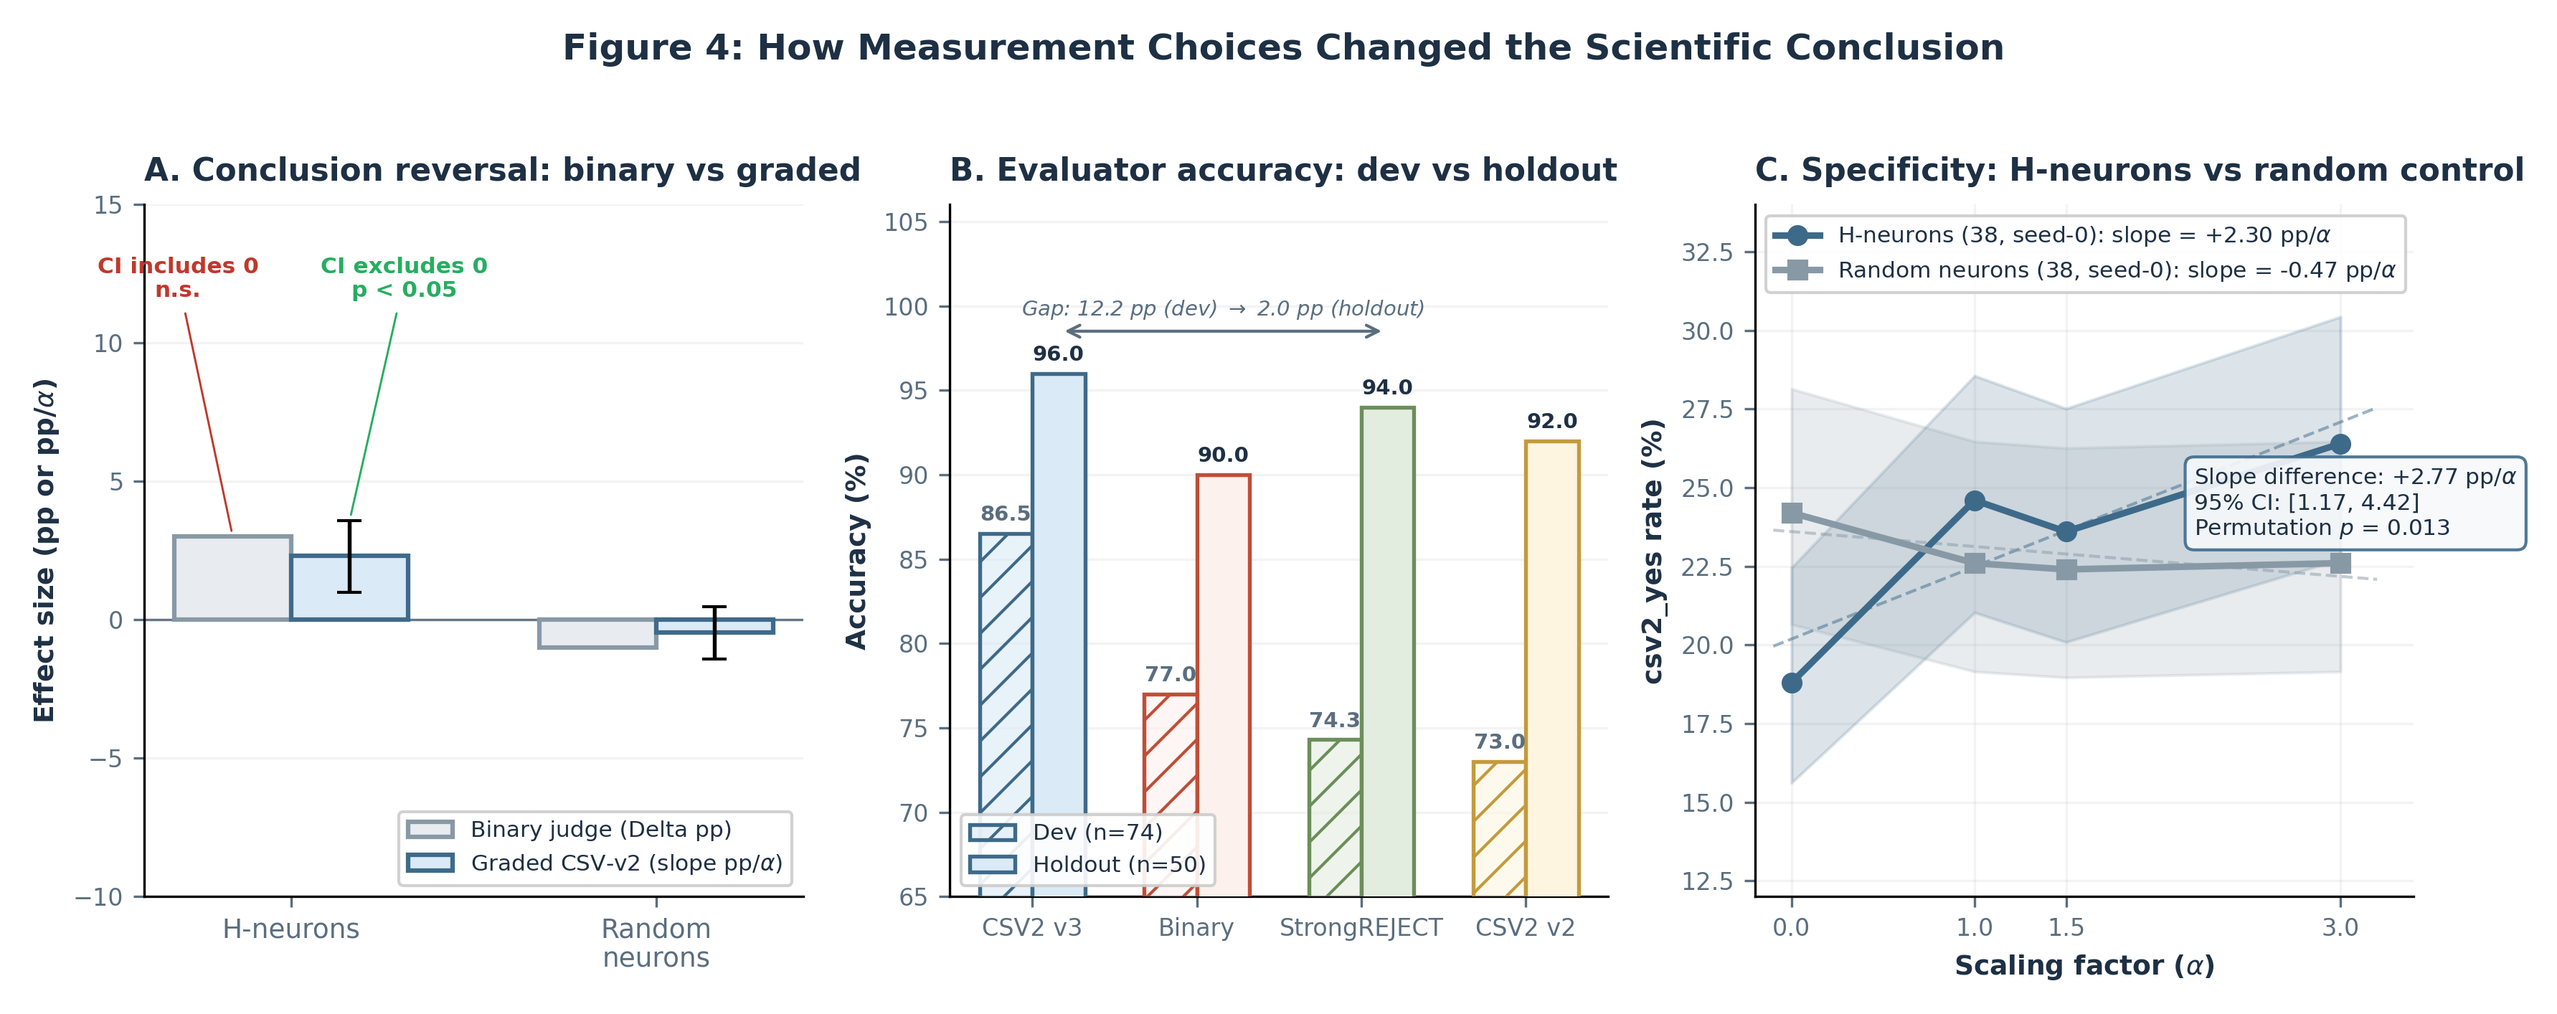
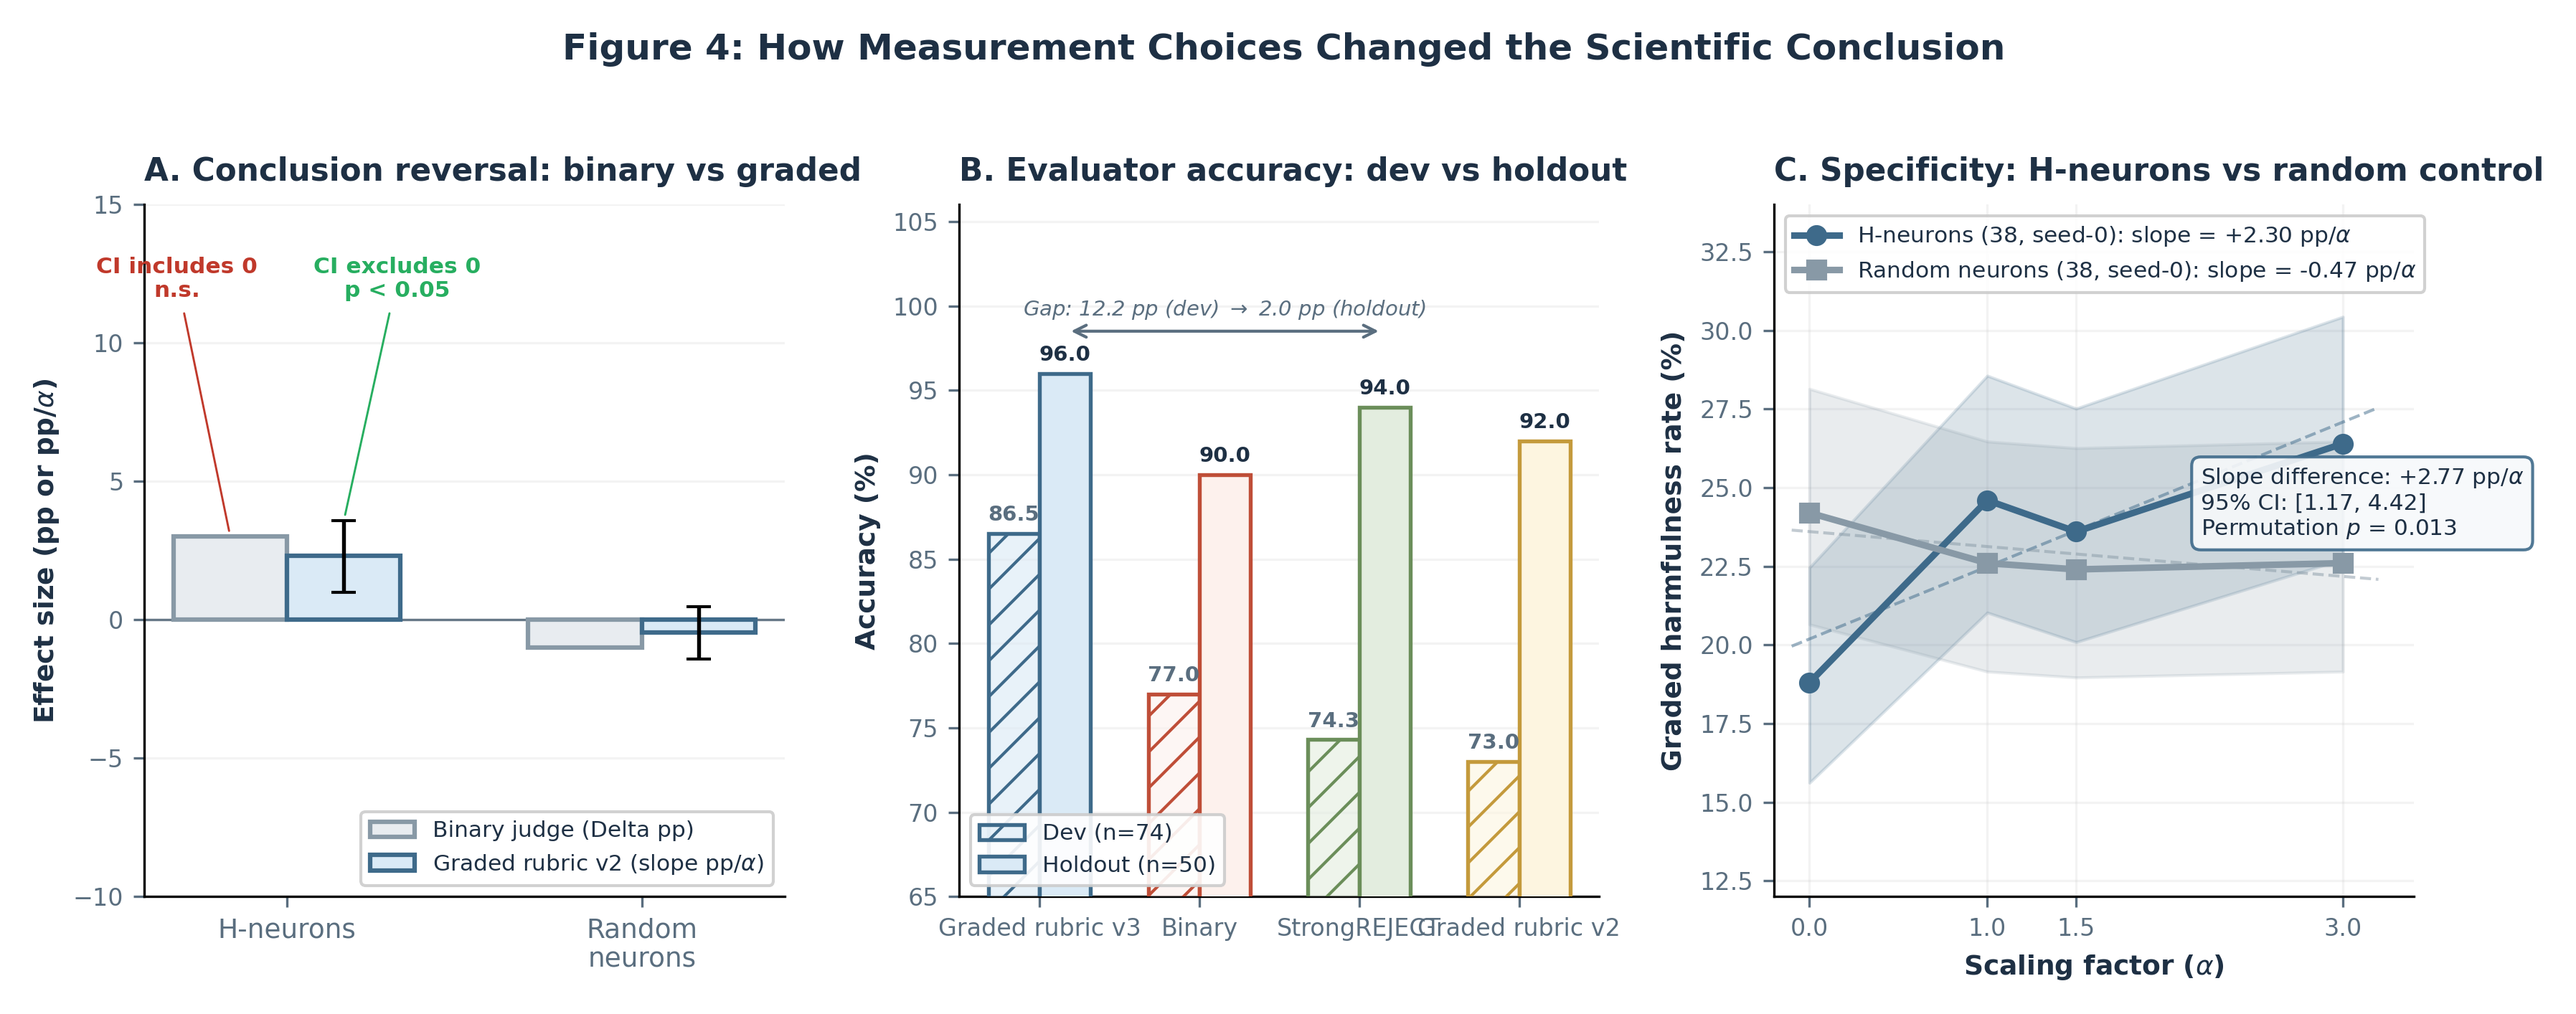
fix: stabilize paper builder paths and fig4 rubric label

diff --git a/scripts/build_full_paper.py b/scripts/build_full_paper.py
@@ -1,0 +1,146 @@
+#!/usr/bin/env python3
+"""Assemble the paper draft from section source files."""
+
+from __future__ import annotations
+
+import argparse
+import json
+import sys
+from dataclasses import dataclass
+from pathlib import Path
+
+REPO_ROOT = Path(__file__).resolve().parents[1]
+DEFAULT_MANIFEST = REPO_ROOT / "notes/paper/draft/assembly_manifest.json"
+DEFAULT_OUTPUT = REPO_ROOT / "notes/paper/draft/full_paper.md"
+GENERATED_WARNING = """<!--
+Generated file: do not edit directly.
+Edit notes/paper/draft source shards and rebuild with:
+  uv run python scripts/build_full_paper.py
+-->"""
+RULE_AFTER = {"front_matter.md", "abstract.md", "section_9_conclusion.md"}
+
+
+@dataclass(frozen=True)
+class SourceSpec:
+    path: Path
+    expected_heading: str | None = None
+
+
+def parse_args() -> argparse.Namespace:
+    parser = argparse.ArgumentParser(description=__doc__)
+    parser.add_argument("--manifest", type=Path, default=DEFAULT_MANIFEST)
+    parser.add_argument("--output", type=Path, default=DEFAULT_OUTPUT)
+    parser.add_argument(
+        "--check",
+        action="store_true",
+        help="exit nonzero if the compiled paper is stale",
+    )
+    return parser.parse_args()
+
+
+def load_manifest(path: Path) -> list[SourceSpec]:
+    payload = json.loads(path.read_text(encoding="utf-8"))
+    raw_sources = payload.get("sources")
+    if not isinstance(raw_sources, list) or not raw_sources:
+        raise ValueError(f"{path} must define a non-empty 'sources' list")
+
+    manifest_dir = path.parent
+    seen: set[Path] = set()
+    sources: list[SourceSpec] = []
+    for entry in raw_sources:
+        if not isinstance(entry, dict):
+            raise ValueError(f"{path} contains a non-object manifest entry")
+        raw_rel_path = entry.get("path")
+        if not isinstance(raw_rel_path, str) or not raw_rel_path:
+            raise ValueError(f"{path} contains an entry without a valid 'path'")
+        source_path = manifest_dir / raw_rel_path
+        if source_path in seen:
+            raise ValueError(f"duplicate source entry in manifest: {raw_rel_path}")
+        seen.add(source_path)
+        expected_heading = entry.get("expected_heading")
+        if expected_heading is not None and not isinstance(expected_heading, str):
+            raise ValueError(
+                f"{path} entry for {raw_rel_path} has a non-string expected_heading"
+            )
+        sources.append(SourceSpec(path=source_path, expected_heading=expected_heading))
+    return sources
+
+
+def extract_first_heading(text: str) -> str | None:
+    in_comment = False
+    for raw_line in text.splitlines():
+        line = raw_line.strip()
+        if not line:
+            continue
+        if in_comment:
+            if "-->" in line:
+                in_comment = False
+            continue
+        if line.startswith("<!--"):
+            if "-->" not in line:
+                in_comment = True
+            continue
+        if line.startswith("#"):
+            return line
+        return None
+    return None
+
+
+def validate_source(spec: SourceSpec) -> str:
+    if not spec.path.exists():
+        raise FileNotFoundError(f"missing paper source: {spec.path}")
+    text = spec.path.read_text(encoding="utf-8").rstrip()
+    if spec.expected_heading is not None:
+        found_heading = extract_first_heading(text)
+        if found_heading != spec.expected_heading:
+            raise ValueError(
+                f"{spec.path} heading mismatch: expected "
+                f"{spec.expected_heading!r}, found {found_heading!r}"
+            )
+    return text
+
+
+def render_document(sources: list[SourceSpec]) -> str:
+    if not sources:
+        raise ValueError("cannot render document with no sources")
+
+    parts: list[str] = []
+    for idx, spec in enumerate(sources):
+        parts.append(validate_source(spec))
+        if idx == len(sources) - 1:
+            continue
+        separator = "\n\n---\n\n" if spec.path.name in RULE_AFTER else "\n\n"
+        parts.append(separator)
+
+    body = "".join(parts).rstrip() + "\n"
+    return GENERATED_WARNING + "\n\n" + body
+
+
+def build_full_paper(manifest_path: Path, output_path: Path, *, check: bool) -> None:
+    sources = load_manifest(manifest_path)
+    rendered = render_document(sources)
+    if check:
+        if not output_path.exists():
+            raise SystemExit(f"{output_path} is missing; run the builder first")
+        current = output_path.read_text(encoding="utf-8")
+        if current != rendered:
+            raise SystemExit(
+                f"{output_path} is stale; run `uv run python scripts/build_full_paper.py`"
+            )
+        return
+
+    output_path.write_text(rendered, encoding="utf-8")
+    print(f"Built {output_path}")
+
+
+def main() -> None:
+    args = parse_args()
+    try:
+        build_full_paper(args.manifest, args.output, check=args.check)
+    except (FileNotFoundError, ValueError) as exc:
+        print(f"error: {exc}", file=sys.stderr)
+        raise SystemExit(1) from exc
+
+
+if __name__ == "__main__":
+    main()

diff --git a/tests/test_build_full_paper.py b/tests/test_build_full_paper.py
@@ -1,0 +1,140 @@
+"""Tests for the paper assembly builder."""
+
+from __future__ import annotations
+
+import argparse
+import importlib
+import json
+import sys
+from pathlib import Path
+
+import pytest
+
+sys.path.insert(0, str(Path(__file__).resolve().parent.parent / "scripts"))
+
+build_full_paper = importlib.import_module("build_full_paper")
+REPO_ROOT = Path(__file__).resolve().parent.parent
+
+
+def _write(path: Path, text: str) -> None:
+    path.parent.mkdir(parents=True, exist_ok=True)
+    path.write_text(text, encoding="utf-8")
+
+
+def _manifest(tmp_path: Path, sources: list[dict[str, str]]) -> Path:
+    manifest = tmp_path / "manifest.json"
+    manifest.write_text(json.dumps({"sources": sources}), encoding="utf-8")
+    return manifest
+
+
+class TestBuildFullPaper:
+    def test_default_paths_are_repo_root_relative(self, monkeypatch):
+        monkeypatch.chdir(REPO_ROOT / "notes/paper/draft")
+        monkeypatch.setattr(sys, "argv", ["build_full_paper.py"])
+
+        args = build_full_paper.parse_args()
+
+        assert args.manifest == REPO_ROOT / "notes/paper/draft/assembly_manifest.json"
+        assert args.output == REPO_ROOT / "notes/paper/draft/full_paper.md"
+
+    def test_builds_from_manifest(self, tmp_path, monkeypatch):
+        _write(tmp_path / "front_matter.md", "Title\n\nAuthor")
+        _write(tmp_path / "abstract.md", "# Abstract\n\nAbstract body.")
+        _write(tmp_path / "section_1.md", "# 1. Intro\n\nIntro body.")
+        _write(tmp_path / "references.md", "# References\n\nRef.")
+
+        manifest = _manifest(
+            tmp_path,
+            [
+                {"path": "front_matter.md"},
+                {"path": "abstract.md", "expected_heading": "# Abstract"},
+                {"path": "section_1.md", "expected_heading": "# 1. Intro"},
+                {"path": "references.md", "expected_heading": "# References"},
+            ],
+        )
+        output = tmp_path / "full_paper.md"
+        monkeypatch.setattr(
+            build_full_paper,
+            "parse_args",
+            lambda: argparse.Namespace(
+                manifest=manifest,
+                output=output,
+                check=False,
+            ),
+        )
+
+        build_full_paper.main()
+
+        rendered = output.read_text(encoding="utf-8")
+        assert rendered.startswith(build_full_paper.GENERATED_WARNING)
+        assert "Title\n\nAuthor\n\n---\n\n# Abstract" in rendered
+        assert "# 1. Intro\n\nIntro body.\n\n# References" in rendered
+
+    def test_check_mode_fails_on_stale_output(self, tmp_path, monkeypatch):
+        _write(tmp_path / "front_matter.md", "Title")
+        _write(tmp_path / "abstract.md", "# Abstract\n\nFresh.")
+        manifest = _manifest(
+            tmp_path,
+            [
+                {"path": "front_matter.md"},
+                {"path": "abstract.md", "expected_heading": "# Abstract"},
+            ],
+        )
+        output = tmp_path / "full_paper.md"
+        output.write_text("stale", encoding="utf-8")
+        monkeypatch.setattr(
+            build_full_paper,
+            "parse_args",
+            lambda: argparse.Namespace(
+                manifest=manifest,
+                output=output,
+                check=True,
+            ),
+        )
+
+        with pytest.raises(SystemExit, match="is stale"):
+            build_full_paper.main()
+
+    def test_missing_source_fails(self, tmp_path):
+        manifest = _manifest(
+            tmp_path,
+            [
+                {"path": "missing.md", "expected_heading": "# Missing"},
+            ],
+        )
+
+        with pytest.raises(FileNotFoundError, match="missing paper source"):
+            build_full_paper.build_full_paper(
+                manifest_path=manifest,
+                output_path=tmp_path / "out.md",
+                check=False,
+            )
+
+    def test_duplicate_source_fails(self, tmp_path):
+        _write(tmp_path / "abstract.md", "# Abstract\n\nBody")
+        manifest = _manifest(
+            tmp_path,
+            [
+                {"path": "abstract.md", "expected_heading": "# Abstract"},
+                {"path": "abstract.md", "expected_heading": "# Abstract"},
+            ],
+        )
+
+        with pytest.raises(ValueError, match="duplicate source entry"):
+            build_full_paper.load_manifest(manifest)
+
+    def test_heading_validation_fails(self, tmp_path):
+        _write(tmp_path / "abstract.md", "# Wrong\n\nBody")
+        manifest = _manifest(
+            tmp_path,
+            [
+                {"path": "abstract.md", "expected_heading": "# Abstract"},
+            ],
+        )
+
+        with pytest.raises(ValueError, match="heading mismatch"):
+            build_full_paper.build_full_paper(
+                manifest_path=manifest,
+                output_path=tmp_path / "out.md",
+                check=False,
+            )

diff --git a/notes/paper/draft/figures/fig4_measurement.py b/notes/paper/draft/figures/fig4_measurement.py
@@ -7,14 +7,15 @@ the H-neuron intervention is detected.
 
 Panel A: Binary vs graded evaluation on same data
   Binary judge: Delta +3.0 pp, CI includes zero -> NOT significant
-  Graded (CSV-v2): slope +2.30 pp/alpha [+0.99, +3.58] -> significant
+  Graded rubric: slope +2.30 pp/alpha [+0.99, +3.58] -> significant
   Random control for both: flat
 
 Panel B: Evaluator accuracy comparison (dev vs holdout)
   4 evaluators, 2 conditions (dev n=74, holdout n=50)
 
 Panel C: Specificity control (H-neurons vs random)
-  csv2_yes rate vs alpha with CIs, annotated slope difference and p-value
+  Graded harmfulness rate vs alpha with CIs, annotated slope difference
+  and p-value
 
 Data sources:
   - notes/act3-reports/2026-04-12-seed0-jailbreak-control-audit.md
@@ -79,7 +80,7 @@ plt.rcParams.update(
 )
 
 # --- Panel B: Evaluator accuracy (from 4-way reports) ---
-EVALUATOR_NAMES = ["CSV2 v3", "Binary", "StrongREJECT", "CSV2 v2"]
+EVALUATOR_NAMES = ["Graded rubric v3", "Binary", "StrongREJECT", "Graded rubric v2"]
 DEV_ACCURACY = [86.5, 77.0, 74.3, 73.0]  # n=74
 HOLDOUT_ACCURACY = [96.0, 90.0, 94.0, 92.0]  # n=50
 
@@ -116,7 +117,7 @@ def load_measurement_data() -> dict:
         "data/gemma3_4b/intervention/jailbreak/control/seed_0_unconstrained/results.json"
     )
     csv2 = load_json(
-        "data/gemma3_4b/intervention/jailbreak/control/comparison_csv2_summary.json"
+        "data/gemma3_4b/intervention/jailbreak/control/comparison_csv2_v2_summary.json"
     )
 
     hn_binary_delta = (
@@ -190,7 +191,7 @@ def draw_panel_a(ax: plt.Axes, data: dict) -> None:
     # Binary judge (delta pp)
     binary_vals = [data["hn_binary_delta"], data["ctrl_binary_delta"]]
 
-    # Graded (CSV-v2 slope pp/alpha)
+    # Graded rubric (slope pp/alpha)
     graded_vals = [data["hn_graded_slope"], data["ctrl_graded_slope"]]
     graded_errs_lo = [
         data["hn_graded_slope"] - HN_GRADED_CI[0],
@@ -224,7 +225,7 @@ def draw_panel_a(ax: plt.Axes, data: dict) -> None:
         linewidth=1.5,
         capsize=4,
         error_kw={"linewidth": 1.3, "color": SUBTITLE_COLOR},
-        label="Graded CSV-v2 (slope pp/$\\alpha$)",
+        label="Graded rubric v2 (slope pp/$\\alpha$)",
         zorder=3,
     )
 
@@ -349,7 +350,7 @@ def draw_panel_b(ax: plt.Axes) -> None:
     # Dev gap (v3 - SR): 86.5 - 74.3 = 12.2pp
     # Holdout gap (v3 - SR): 96.0 - 94.0 = 2.0pp
     bracket_y = 98.5
-    # Bracket between CSV2 v3 (holdout) and StrongREJECT (holdout) positions
+    # Bracket between graded-rubric v3 (holdout) and StrongREJECT positions
     x_v3_ho = 0 + bar_width / 2
     x_sr_ho = 2 + bar_width / 2
     ax.annotate(
@@ -403,8 +404,8 @@ def draw_panel_b(ax: plt.Axes) -> None:
 # Panel C: Specificity control -- H-neurons vs random
 # ---------------------------------------------------------------------------
 def draw_panel_c(ax: plt.Axes, data: dict) -> None:
-    """Line plot of csv2_yes rate vs alpha with CIs for H-neurons and
-    random control, annotated with slope difference and p-value."""
+    """Line plot of graded harmfulness rate vs alpha with CIs for H-neurons
+    and a random control, annotated with slope difference and p-value."""
 
     # H-neuron curve
     ax.fill_between(
@@ -493,7 +494,7 @@ def draw_panel_c(ax: plt.Axes, data: dict) -> None:
     )
 
     ax.set_xlabel("Scaling factor ($\\alpha$)", fontsize=9, fontweight="bold")
-    ax.set_ylabel("csv2_yes rate (%)", fontsize=9, fontweight="bold")
+    ax.set_ylabel("Graded harmfulness rate (%)", fontsize=9, fontweight="bold")
     ax.set_xlim(-0.2, 3.4)
     ax.set_ylim(12, 34)
     ax.set_xticks(data["alphas"])
